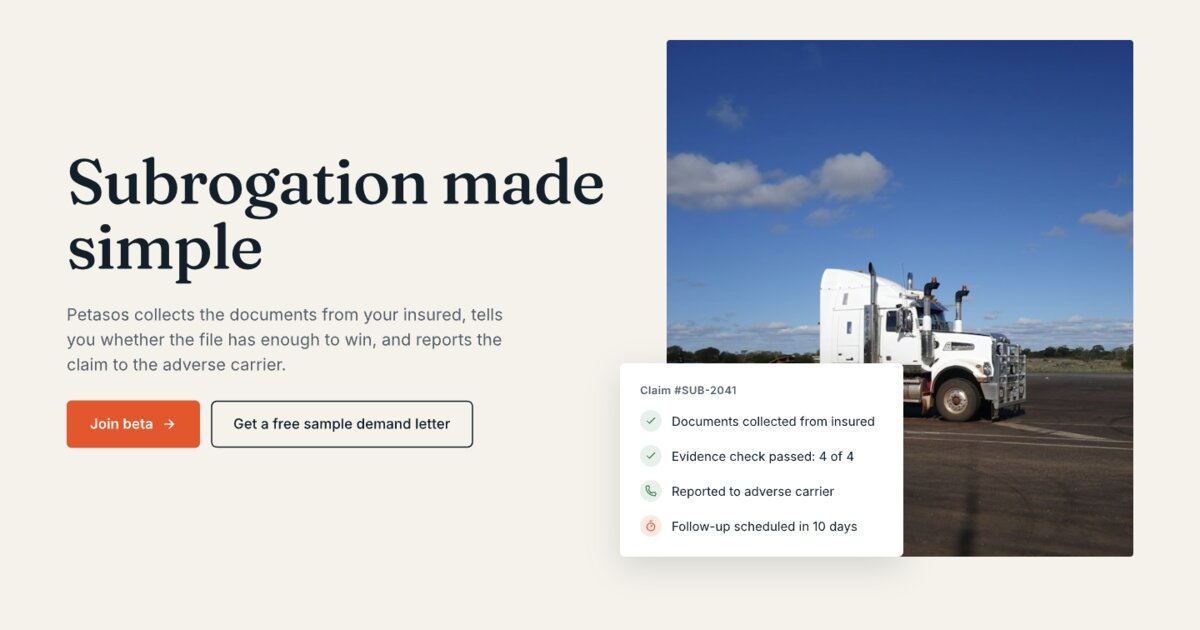
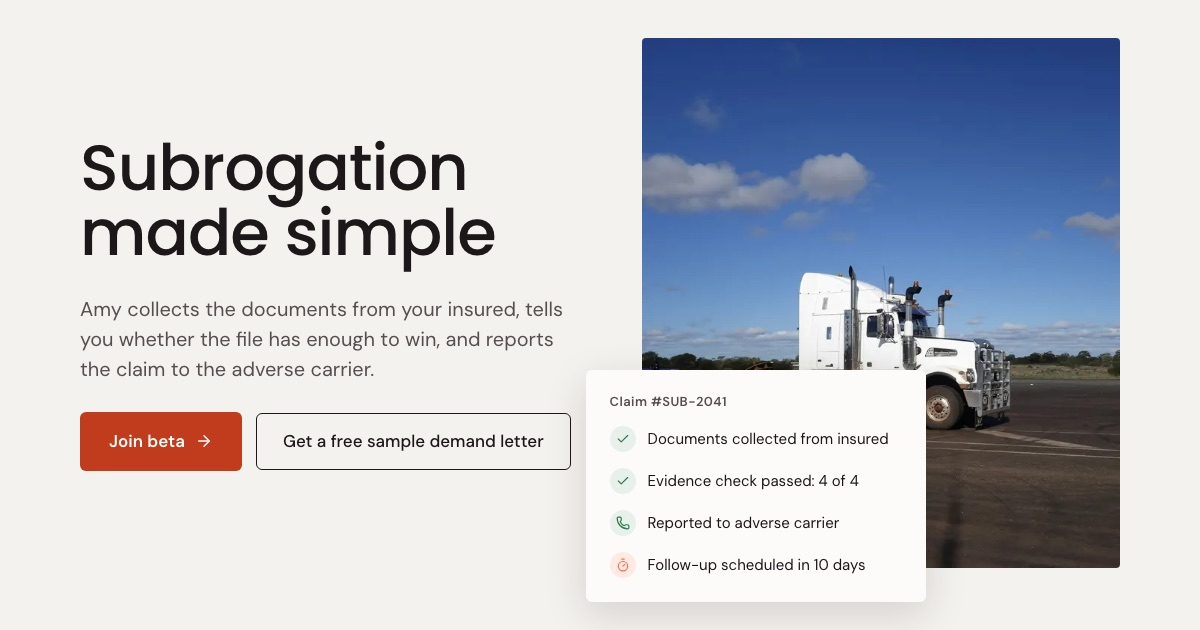
feat: rebrand landing page from Petasos to Amy
Use the Amy Connects brand from amyconnects-infra: the looped "A" wordmark
and mark, coral palette, Poppins headings and DM Sans body. Filled buttons
and small coral text use a deeper coral (#C03C1C) so white text passes AA.

- Replace user-facing "Petasos" copy with "Amy" (site, meta tags, docs)
- Add Logo component; nav and footer use it
- New favicon, apple-touch icon and regenerated og-image
- Swap font packages and the font preload in vite.config.ts
- Keep the /Petasos-web/ base path and the Apps Script service id

diff --git a/src/components/sections/pain-points.tsx b/src/components/sections/pain-points.tsx
@@ -50,7 +50,7 @@ function ChecklistCard() {
   return (
     <Card className="w-full gap-1 bg-background p-6 sm:p-9 md:w-[46%] md:shrink-0 xl:w-[560px]">
       <p className="text-sm leading-[17px] font-semibold tracking-[0.3px] text-muted-foreground">
-        Petasos checks every file against your checklist
+        Amy checks every file against your checklist
       </p>
       <ul className="mt-4">
         {CHECKS.map(({ ok, text }) => (
@@ -85,7 +85,7 @@ export function PainPoints() {
         <div className="flex flex-col gap-6 md:flex-row md:items-end md:justify-between md:gap-12">
           <SectionTitle className="max-w-[620px] leading-[1.05]">Subrogation can be an overcomplicated waste of time.</SectionTitle>
           <p className="max-w-[420px] text-[17px] leading-[1.5] text-muted-foreground md:text-lg">
-            Stop cannibalizing your subro adjuster's week. Petasos takes all three off the desk.
+            Stop cannibalizing your subro adjuster's week. Amy takes all three off the desk.
           </p>
         </div>
 
@@ -96,7 +96,7 @@ export function PainPoints() {
             n={1}
             title="Chasing your insured client for documents"
             problem="Problem: The package arrives without proof of payment, a liability investigation or the other party's insurance details. Someone then spends a week of emails chasing them. Without them, you can't collect."
-            solution="The Solution: Petasos reads the file, emails the insured a list of exactly what's missing and keeps following up until it arrives. Each document is filed to the claim as it comes in."
+            solution="The Solution: Amy reads the file, emails the insured a list of exactly what's missing and keeps following up until it arrives. Each document is filed to the claim as it comes in."
           />
         </Row>
 
@@ -115,7 +115,7 @@ export function PainPoints() {
             n={3}
             title="Hours on the phone reporting the claim"
             problem="The Problem: Every carrier does intake differently. You could be spending hours talking to an AI chatbot over the phone, or a rep who doesn't particularly want to be there. Your team reads the same facts from the file to each one, then waits on hold for the next."
-            solution="The Solution: Petasos reports the claim to the adverse carrier using the facts already in your file. It then sends the demand and follows up every 10 days until the carrier replies. When it does, Petasos pauses and hands the file back to your adjuster."
+            solution="The Solution: Amy reports the claim to the adverse carrier using the facts already in your file. It then sends the demand and follows up every 10 days until the carrier replies. When it does, Amy pauses and hands the file back to your adjuster."
           />
           <Photo src={phone} alt="A call-center headset next to a laptop" />
         </Row>

diff --git a/src/index.css b/src/index.css
@@ -1,13 +1,15 @@
 @import "tailwindcss";
 @import "tw-animate-css";
 @import "shadcn/tailwind.css";
-@import "@fontsource-variable/fraunces";
-@import "@fontsource-variable/inter";
+@import "@fontsource/poppins/500.css";
+@import "@fontsource/poppins/600.css";
+@import "@fontsource/poppins/700.css";
+@import "@fontsource-variable/dm-sans";
 
-/* Tokens mirror the variables in designs/petasos-landing.pen. Light only. */
+/* Tokens follow the Amy Connects brand (amyconnects-infra frontend). Light only. */
 @theme inline {
-  --font-heading: "Fraunces Variable", Georgia, serif;
-  --font-sans: "Inter Variable", ui-sans-serif, system-ui, sans-serif;
+  --font-heading: "Poppins", ui-sans-serif, system-ui, sans-serif;
+  --font-sans: "DM Sans Variable", ui-sans-serif, system-ui, sans-serif;
   --color-ring: var(--ring);
   --color-input: var(--input);
   --color-border: var(--border);
@@ -41,36 +43,35 @@
 }
 
 :root {
-  --background: #f5f2ec; /* bg */
-  --foreground: #13202a; /* ink */
-  --card: #ffffff; /* paper */
-  --card-foreground: #13202a;
-  --popover: #ffffff;
-  --popover-foreground: #13202a;
-  --primary: #e2572c; /* accent */
-  /* White on #E2572C is 3.7:1, under AA for 15–17px labels. Filled buttons use this
-     slightly deeper accent (4.7:1). */
-  --primary-strong: #c94a22;
+  --background: #f4f2ee;
+  --foreground: #1c1718;
+  --card: #fcfbfa;
+  --card-foreground: #1c1718;
+  --popover: #fcfbfa;
+  --popover-foreground: #1c1718;
+  --primary: #ff6b4a; /* Amy coral */
+  /* White on #FF6B4A is 2.8:1, under AA. Filled buttons and small coral text use this
+     deeper coral (5.4:1 with white, 4.8:1 on the background). */
+  --primary-strong: #c03c1c;
   --primary-foreground: #ffffff;
-  --primary-tint: #fbe9e2;
-  --secondary: #f5f2ec;
-  --secondary-foreground: #13202a;
-  --muted: #f5f2ec;
-  --muted-foreground: #55616b; /* muted: 5.7:1 on bg, 6.4:1 on paper */
-  --accent: #f5f2ec;
-  --accent-foreground: #13202a;
+  --primary-tint: #ffe9e3;
+  --secondary: #eae6df;
+  --secondary-foreground: #1c1718;
+  --muted: #eae6df;
+  --muted-foreground: #564f4f; /* 7.2:1 on background, 7.7:1 on card */
+  --accent: #eae6df;
+  --accent-foreground: #1c1718;
   --destructive: #b42318;
-  --border: #dcd6cb; /* line */
-  --input: #dcd6cb;
-  --ring: #e2572c;
-  --radius: 6px;
-  --night: #0f1b24;
-  --night-muted: #a9b4bc;
+  --border: #e0dacf;
+  --input: #e0dacf;
+  --ring: #c03c1c;
+  --radius: 8px;
+  --night: #1c1718;
+  --night-muted: #a79fa0; /* 6.8:1 on night */
   --success: #2f7a4b;
   --success-tint: #e7f0ea;
-  /* The .pen uses #8A949C (3.1:1) for placeholders; darkened to pass AA. */
-  --placeholder: #6b757d;
-  --skeleton: #e8e3da;
+  --placeholder: #6b6464; /* 5.6:1 on card */
+  --skeleton: #eae6df;
 }
 
 @layer base {

diff --git a/index.html b/index.html
@@ -3,10 +3,10 @@
   <head>
     <meta charset="UTF-8" />
     <meta name="viewport" content="width=device-width, initial-scale=1.0" />
-    <title>Petasos — Subrogation made simple</title>
+    <title>Amy — Subrogation made simple</title>
     <meta
       name="description"
-      content="Petasos collects the documents from your insured, tells you whether the file has enough to win, and reports the claim to the adverse carrier. Join the design-partner beta."
+      content="Amy collects the documents from your insured, tells you whether the file has enough to win, and reports the claim to the adverse carrier. Join the design-partner beta."
     />
     <meta name="theme-color" content="#F5F2EC" />
     <link rel="icon" type="image/svg+xml" href="/favicon.svg" />
@@ -15,23 +15,23 @@
     <link rel="canonical" href="%SITE_URL%" />
 
     <meta property="og:type" content="website" />
-    <meta property="og:site_name" content="Petasos" />
-    <meta property="og:title" content="Petasos — Subrogation made simple" />
+    <meta property="og:site_name" content="Amy" />
+    <meta property="og:title" content="Amy — Subrogation made simple" />
     <meta
       property="og:description"
-      content="Petasos chases the documents, checks the evidence and reports the claim to the adverse carrier. Negotiation stays with your adjusters."
+      content="Amy chases the documents, checks the evidence and reports the claim to the adverse carrier. Negotiation stays with your adjusters."
     />
     <meta property="og:url" content="%SITE_URL%" />
     <meta property="og:image" content="%SITE_URL%og-image.jpg" />
     <meta property="og:image:width" content="1200" />
     <meta property="og:image:height" content="630" />
-    <meta property="og:image:alt" content="Petasos: Subrogation made simple" />
+    <meta property="og:image:alt" content="Amy: Subrogation made simple" />
 
     <meta name="twitter:card" content="summary_large_image" />
-    <meta name="twitter:title" content="Petasos — Subrogation made simple" />
+    <meta name="twitter:title" content="Amy — Subrogation made simple" />
     <meta
       name="twitter:description"
-      content="Petasos chases the documents, checks the evidence and reports the claim to the adverse carrier."
+      content="Amy chases the documents, checks the evidence and reports the claim to the adverse carrier."
     />
     <meta name="twitter:image" content="%SITE_URL%og-image.jpg" />
   </head>

diff --git a/src/components/logo.tsx b/src/components/logo.tsx
@@ -1,0 +1,17 @@
+import type React from "react"
+
+// Amy Connects wordmark and mark, from amyconnects-infra (amyconnects-frontend/src/components/logo.tsx).
+// The looped "A" mark renders in Amy coral; "my" follows the current text color.
+const MARK = "M3.18529 26.3705C4.55327 24.0599 6.28072 22.0541 8.27776 20.3137C8.67717 20.0089 9.02666 19.7435 9.38612 19.4386C9.42607 18.5636 9.56586 17.6098 9.69567 16.6069C10.2249 13.5097 11.1535 10.501 12.4815 7.66927C13.8096 4.78838 15.537 2.3991 17.574 0H24.6136L40.5501 34.8657H33.6902L20.1802 5.62413C19.2116 7.02033 18.3629 8.45586 17.6539 9.97988C16.6754 12.1627 15.9265 14.4241 15.4871 16.7347C16.8551 16.4693 18.1831 16.5184 19.4712 16.7741C22.0374 17.2952 24.384 19.1732 25.4923 21.6509C26.4709 23.7452 26.4709 26.0558 25.4024 27.924C24.5138 29.4972 23.016 30.6672 21.1587 31.2375C19.4812 31.7586 17.614 31.7193 16.0263 31.1097C13.6798 30.2838 11.6927 28.4058 10.5344 25.9674C9.64574 26.9703 8.85691 28.0617 8.14795 29.1924C7.08952 30.9819 6.38057 32.8992 5.98116 34.8558H0C0.529218 32.2798 1.81731 28.6713 3.18529 26.3607V26.3705ZM15.4472 22.8407C15.8865 24.2762 16.8651 25.4561 17.9734 25.8494C18.8621 26.1542 20.0104 25.8494 20.3599 25.2398C20.6295 24.8071 20.4598 24.227 20.3299 23.8829C19.9305 23.057 19.1916 22.4474 18.283 22.2802C17.7538 22.1819 16.7752 22.1032 15.3673 22.585C15.4072 22.6735 15.4072 22.762 15.4571 22.8505L15.4472 22.8407Z"
+const M = "M75.3287 22.7226V34.8657H69.7469V23.3421C69.7469 20.4514 68.3589 18.8388 65.8926 18.8388C63.2066 18.8388 61.3992 20.7365 61.3992 23.6272V34.8657H55.8674V23.3421C55.8674 20.4514 54.4795 18.8388 52.0031 18.8388C49.3171 18.8388 47.5198 20.7365 47.5198 23.6272V34.8657H41.938V14.4634H46.7609L47.1403 16.8625C48.5283 15.0829 50.6252 14.0505 53.0516 14.0505C55.9074 14.0505 58.2539 15.3287 59.512 17.4328C61.1496 15.2009 63.586 14.0505 66.7713 14.0505C72.0535 14.0505 75.3287 17.3148 75.3287 22.7226Z"
+const Y = "M99 14.4635L86.0392 44H80.038L84.1519 34.6199L76.014 14.4635H82.0151L85.0806 22.4376L87.2574 28.6713L89.6438 22.4376L92.9589 14.4635H99Z"
+
+export function Logo({ className, ...props }: React.ComponentProps<"svg">) {
+  return (
+    <svg viewBox="0 0 99 44" xmlns="http://www.w3.org/2000/svg" role="img" aria-label="Amy" className={className} {...props}>
+      <path d={MARK} fill="var(--primary)" />
+      <path d={M} fill="currentColor" />
+      <path d={Y} fill="currentColor" />
+    </svg>
+  )
+}

diff --git a/src/components/sections/nav.tsx b/src/components/sections/nav.tsx
@@ -1,6 +1,7 @@
 import { Menu } from "lucide-react"
 import { useRef, useState } from "react"
 import { CtaLink } from "@/components/cta-link"
+import { Logo } from "@/components/logo"
 import { Badge } from "@/components/ui/badge"
 import { Button } from "@/components/ui/button"
 import { Sheet, SheetContent, SheetDescription, SheetHeader, SheetTitle, SheetTrigger } from "@/components/ui/sheet"
@@ -19,8 +20,8 @@ export function Nav() {
   return (
     <header className="sticky top-0 z-40 bg-background/95 px-4 backdrop-blur-sm supports-[backdrop-filter]:bg-background/85 sm:px-10 lg:px-20">
       <nav aria-label="Main" className="mx-auto flex max-w-[1280px] items-center justify-between gap-4 py-4 md:py-6">
-        <a href="#top" aria-label="Petasos for Subrogation, back to top" className="flex items-center gap-2.5 rounded-sm">
-          <span className="font-heading text-[24px] leading-none font-semibold text-foreground md:text-[28px]">Petasos</span>
+        <a href="#top" aria-label="Amy for Subrogation, back to top" className="flex items-center gap-2.5 rounded-sm">
+          <Logo className="h-8 w-auto text-foreground md:h-9" />
           <Badge variant="outline" className="hidden sm:inline-flex">
             for Subrogation
           </Badge>
@@ -57,7 +58,7 @@ export function Nav() {
               }}
             >
               <SheetHeader>
-                <SheetTitle className="font-heading text-2xl font-semibold">Petasos</SheetTitle>
+                <SheetTitle className="font-heading text-2xl font-semibold">Amy</SheetTitle>
                 <SheetDescription className="sr-only">Jump to a section</SheetDescription>
               </SheetHeader>
               <ul className="flex flex-col px-4">

diff --git a/src/components/sections/faq.tsx b/src/components/sections/faq.tsx
@@ -4,22 +4,22 @@ import { Accordion, AccordionContent, AccordionItem, AccordionTrigger } from "@/
 import { track } from "@/lib/analytics"
 
 const FAQS = [
-  { q: "Do we have to switch systems?", a: "No. Petasos works over email. CC it on the claim thread." },
+  { q: "Do we have to switch systems?", a: "No. Amy works over email. CC it on the claim thread." },
   {
-    q: "Does Petasos negotiate settlements?",
-    a: "No. Petasos prepares, reports and follows up. Your adjusters negotiate.",
+    q: "Does Amy negotiate settlements?",
+    a: "No. Amy prepares, reports and follows up. Your adjusters negotiate.",
   },
   {
     q: "What if a file isn't ready?",
-    a: "Petasos tells you no and lists the missing items. It won't send a demand until the file is complete.",
+    a: "Amy tells you no and lists the missing items. It won't send a demand until the file is complete.",
   },
   {
-    q: "Which carriers can Petasos report to?",
-    a: "Any carrier. Petasos also checks whether the adverse carrier belongs to arbitration, so you know early whether the file can go to arbitration or would have to be litigated.",
+    q: "Which carriers can Amy report to?",
+    a: "Any carrier. Amy also checks whether the adverse carrier belongs to arbitration, so you know early whether the file can go to arbitration or would have to be litigated.",
   },
   {
-    q: "Is Petasos a law firm?",
-    a: "No. Petasos doesn't give legal advice, and your team reviews every demand before it goes out.",
+    q: "Is Amy a law firm?",
+    a: "No. Amy doesn't give legal advice, and your team reviews every demand before it goes out.",
   },
 ]
 

diff --git a/src/components/sections/hero.tsx b/src/components/sections/hero.tsx
@@ -22,7 +22,7 @@ export function Hero() {
             Subrogation made simple
           </h1>
           <p className="max-w-[540px] text-lg leading-[1.5] text-muted-foreground md:text-xl">
-            Petasos collects the documents from your insured, tells you whether the file has enough to win, and reports
+            Amy collects the documents from your insured, tells you whether the file has enough to win, and reports
             the claim to the adverse carrier.
           </p>
           <div className="flex flex-col gap-3.5 sm:flex-row sm:flex-wrap sm:items-center">
@@ -56,7 +56,7 @@ export function Hero() {
           />
           <Card
             aria-label="Example claim status"
-            className="relative z-10 mx-4 -mt-20 gap-4 p-5 shadow-[0_12px_40px_#13202A26] sm:absolute sm:bottom-4 sm:left-4 sm:mx-0 sm:mt-0 sm:w-[340px] sm:p-6 md:bottom-auto md:-left-14 md:top-[62.6%]"
+            className="relative z-10 mx-4 -mt-20 gap-4 p-5 shadow-[0_12px_40px_#1C171826] sm:absolute sm:bottom-4 sm:left-4 sm:mx-0 sm:mt-0 sm:w-[340px] sm:p-6 md:bottom-auto md:-left-14 md:top-[62.6%]"
           >
             <p className="text-[13px] leading-4 font-semibold tracking-[0.4px] text-muted-foreground">Claim #SUB-2041</p>
             <ul className="flex flex-col gap-4">

diff --git a/src/components/ui/button.tsx b/src/components/ui/button.tsx
@@ -9,13 +9,13 @@ const buttonVariants = cva(
     variants: {
       variant: {
         // Accent fill. Uses the deeper accent so white labels clear WCAG AA.
-        default: "bg-primary-strong text-primary-foreground hover:bg-[#b23f1c]",
+        default: "bg-primary-strong text-primary-foreground hover:bg-[#a8341a]",
         // Hero secondary: 1.5px ink outline, no fill.
         outline:
           "border-[1.5px] border-foreground bg-transparent font-medium text-foreground hover:bg-foreground/5",
         // Accent fill on night sections; offset ring stays visible on the dark ground.
         onDark:
-          "bg-primary-strong text-primary-foreground hover:bg-[#b23f1c] focus-visible:outline-primary",
+          "bg-primary-strong text-primary-foreground hover:bg-[#a8341a] focus-visible:outline-primary",
         ghost: "text-foreground hover:bg-foreground/5",
         link: "text-primary underline-offset-4 hover:underline",
       },

diff --git a/src/components/sections/how-it-works.tsx b/src/components/sections/how-it-works.tsx
@@ -3,15 +3,15 @@ import { Section, SectionTitle } from "@/components/section"
 import { cn } from "@/lib/utils"
 
 const STEPS = [
-  { icon: Mail, title: "CC Petasos on the claim email.", body: "You don't need a new portal or a CRM." },
+  { icon: Mail, title: "CC Amy on the claim email.", body: "You don't need a new portal or a CRM." },
   {
     icon: ClipboardCheck,
-    title: "Petasos builds the package.",
+    title: "Amy builds the package.",
     body: "It chases missing documents and gives you a go or no-go with the reason.",
   },
   {
     icon: PhoneOutgoing,
-    title: "Petasos reports, demands and follows up.",
+    title: "Amy reports, demands and follows up.",
     body: "You're notified as soon as the other carrier replies.",
   },
 ]

diff --git a/src/components/sections/footer.tsx b/src/components/sections/footer.tsx
@@ -1,10 +1,12 @@
+import { Logo } from "@/components/logo"
+
 export function Footer() {
   return (
     <footer className="border-t border-white/12 bg-night px-4 sm:px-10 lg:px-20">
       <div className="mx-auto flex max-w-[1280px] flex-col gap-3 py-8 md:flex-row md:items-center md:justify-between">
-        <span className="font-heading text-[22px] leading-[27px] font-semibold text-white">Petasos</span>
+        <Logo className="h-8 w-auto text-white" />
         <p className="text-sm leading-[17px] text-night-muted">
-          © 2026 Amy Connects. Petasos is not a law firm and does not provide legal advice.
+          © 2026 Amy Connects. Amy is not a law firm and does not provide legal advice.
         </p>
       </div>
     </footer>

diff --git a/src/components/sections/small-files.tsx b/src/components/sections/small-files.tsx
@@ -21,7 +21,7 @@ export function SmallFiles() {
             Find lost money
           </h2>
           <p className="text-[17px] leading-[1.6] text-muted-foreground md:text-lg">
-            A $2,000 demand takes nearly as much work as a $100,000 one. With Petasos doing the reporting and follow-ups,
+            A $2,000 demand takes nearly as much work as a $100,000 one. With Amy doing the reporting and follow-ups,
             you can pursue the whole backlog, not only the large files.
           </p>
           <div className="flex flex-col gap-6">

diff --git a/src/components/sections/sample-letter.tsx b/src/components/sections/sample-letter.tsx
@@ -152,7 +152,7 @@ function LetterPreview() {
     <Card
       role="img"
       aria-label="Preview of a demand letter citing the Carmack Amendment, with a 30-day response deadline"
-      className="w-full max-w-[520px] -rotate-2 gap-3.5 rounded-none p-7 shadow-[0_20px_60px_#13202A22] sm:p-12"
+      className="w-full max-w-[520px] -rotate-2 gap-3.5 rounded-none p-7 shadow-[0_20px_60px_#1C171822] sm:p-12"
     >
       <p className="font-heading text-xl leading-[1.25] font-semibold text-foreground">
         RE: Subrogation demand, Claim No. 00-0000
